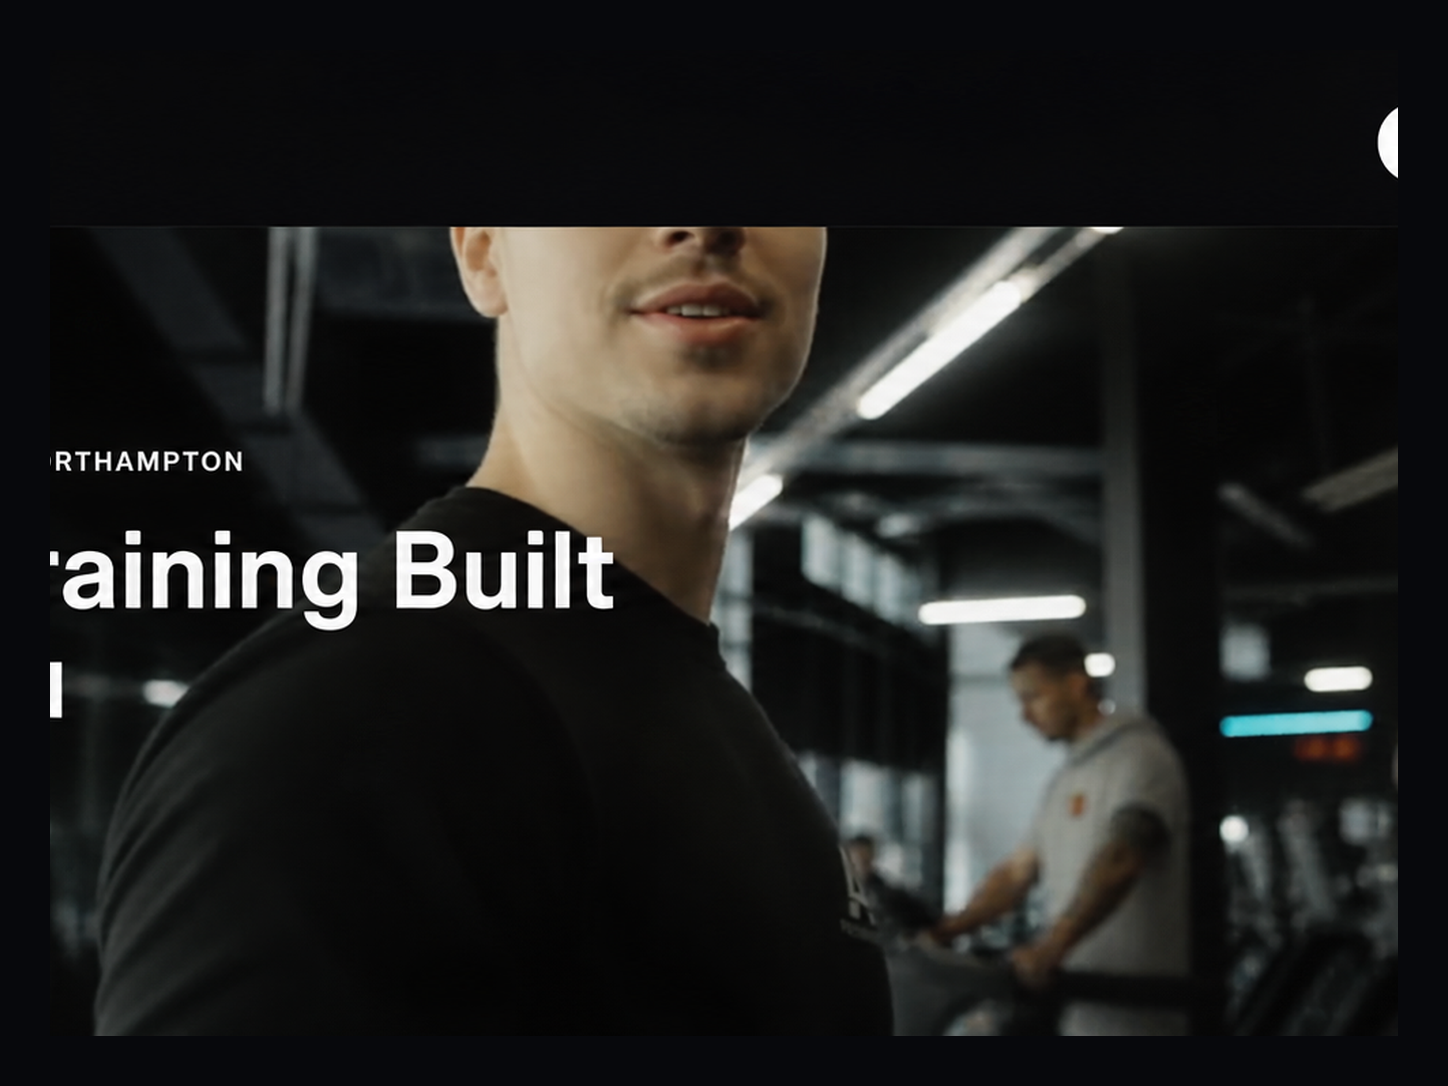
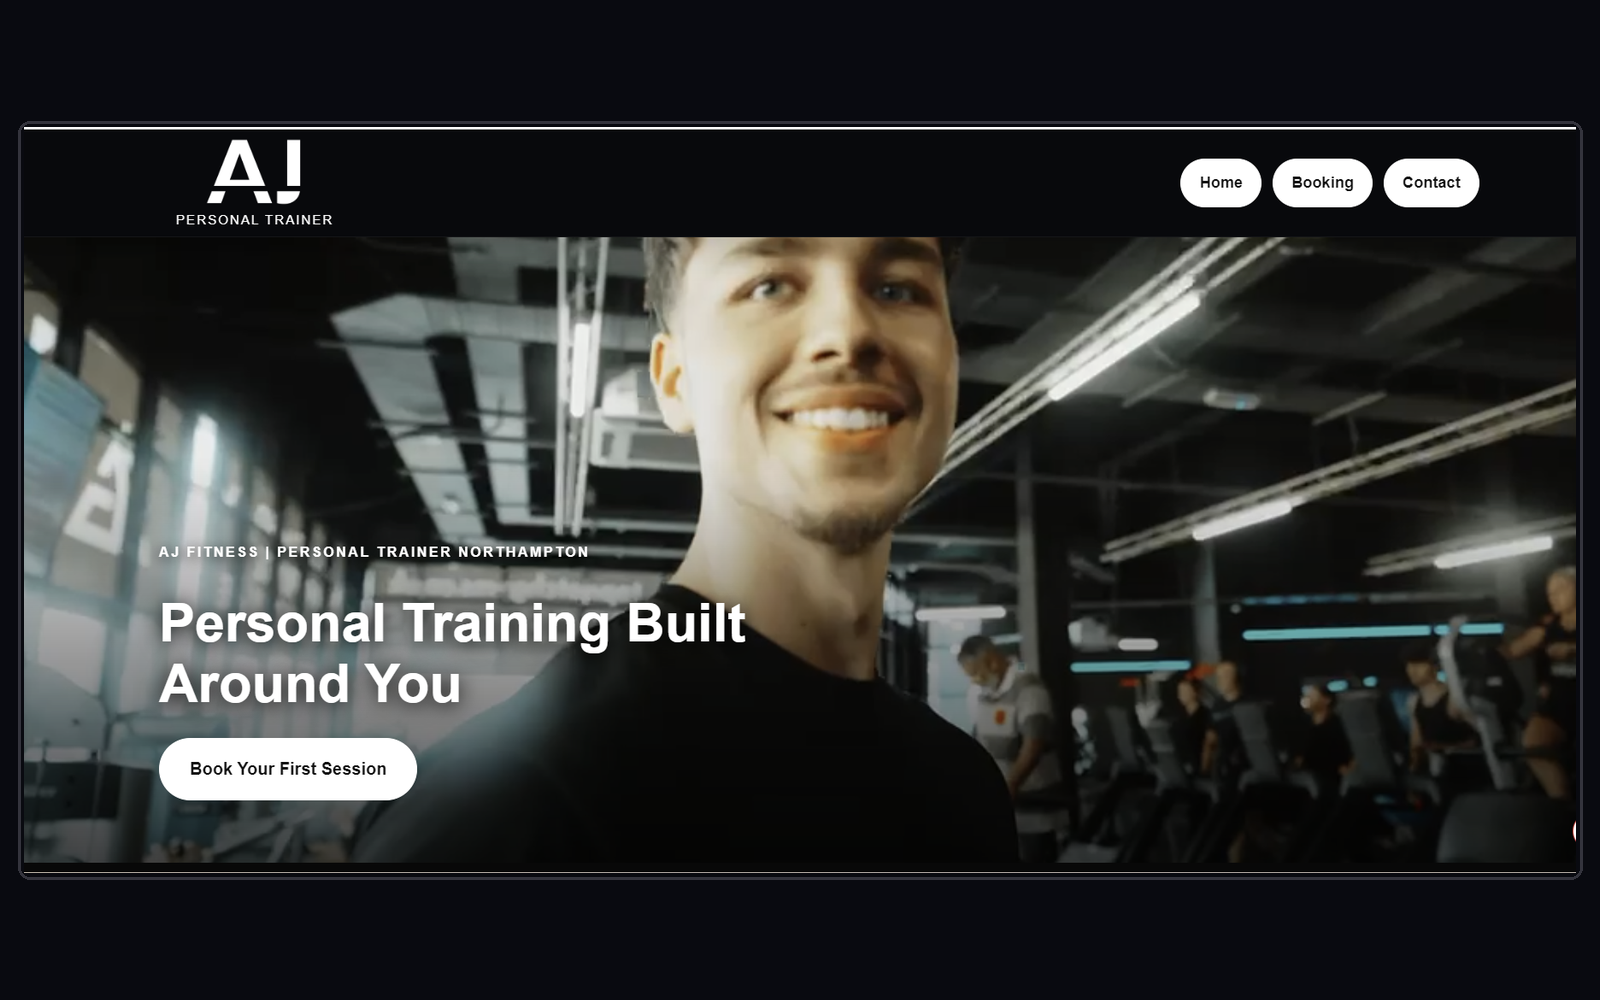
fix: refine AJ Fitness branding and Olga project preview

diff --git a/projects.html b/projects.html
@@ -79,7 +79,7 @@
     <p>
       A luxury aesthetics website designed and hand-coded to showcase treatments, build trust and create a premium client experience.
     </p>
-    <a class="project-link" href="images/olga-aesthetics-mockup.png" target="_blank" rel="noopener">View project</a>
+    <a class="project-link" href="olga-project.html">View project</a>
   </div>
 </article>
       <article class="project-card"><img src="images/sergio-robi-mockup.png"
@@ -91,7 +91,7 @@
             class="project-link" href="https://sergiorobipizzeria.co.uk" target="_blank" rel="noopener">View website</a>
         </div>
       </article>
-      <article class="project-card"><img src="images/aj-fitnes-mockup.png?v=3"
+      <article class="project-card"><img src="images/aj-fitnes-mockup.png?v=4"
           alt="AJ Fitness personal trainer website design by BJ Studio">
         <div class="project-copy-card">
           <p class="kicker">Fitness website</p>
@@ -172,7 +172,7 @@
 
       <article class="testimonial-card luxe-card">
         <div class="testimonial-logo-wrap">
-          <img src="images/aj-fitness-logo.png" alt="AJ Fitness logo" class="testimonial-logo">
+          <img src="images/aj-fitness-logo.png?v=4" alt="AJ Fitness logo" class="testimonial-logo">
         </div>
 
         <p class="testimonial-stars">★★★★★</p>

diff --git a/olga-project.html b/olga-project.html
@@ -1,0 +1,1 @@
+<!doctype html><html lang="en"><head><meta charset="utf-8"><meta name="viewport" content="width=device-width, initial-scale=1"><title>Olga Aesthetics — Website Project | BJ Design</title><meta name="description" content="A premium website concept for the aesthetics industry."><style>*,*::before,*::after{box-sizing:border-box}body{margin:0;background:#08090e;color:#f7f7fa;font-family:Arial,Helvetica,sans-serif}.wrap{max-width:1280px;margin:auto;padding:28px 22px 60px}.back{display:inline-flex;align-items:center;gap:12px;color:#e5bc6b;text-decoration:none;border:1px solid #5c4b31;padding:13px 20px;border-radius:40px;font-weight:700}.back:hover{background:#292116}h1{font-size:clamp(30px,5vw,54px);margin:42px 0 12px}p{color:#b7b8c1;line-height:1.6;margin-bottom:30px}img{display:block;width:100%;height:auto;border-radius:18px;border:1px solid #2c2d36}footer{margin-top:25px;color:#a7a7ae;font-size:14px}@media(max-width:600px){.wrap{padding:18px 14px 36px}h1{margin-top:32px}}</style></head><body><main class="wrap"><a class="back" href="projects.html">&#8592; Back to projects</a><h1>Olga Aesthetics</h1><p>A premium website concept for the aesthetics industry.</p><img src="images/olga-aesthetics-mockup.png" alt="Olga Aesthetics website mockup"><footer>Website design by BJ Design</footer></main></body></html>

diff --git a/projects-pl.html b/projects-pl.html
@@ -83,9 +83,8 @@
     </p>
 
     <a class="project-link"
-       href="https://olga-aesthetics.co.uk"
-       target="_blank"
-       rel="noopener">
+       href="olga-project.html"
+       >
       Zobacz stronę
     </a>
   </div>
@@ -100,7 +99,7 @@
             stronę</a>
         </div>
       </article>
-      <article class="project-card"><img src="images/aj-fitnes-mockup.png" alt="Podgląd strony AJ Fitness">
+      <article class="project-card"><img src="images/aj-fitnes-mockup.png?v=4" alt="Podgląd strony AJ Fitness">
         <div class="project-copy-card">
           <p class="kicker">Strona fitness</p>
           <h3>AJ Fitness</h3>
@@ -181,7 +180,7 @@
       <!-- 1 -->
       <article class="testimonial-card luxe-card">
         <div class="testimonial-logo-wrap">
-          <img src="images/aj-fitness-logo.png" alt="AJ Fitness logo" class="testimonial-logo">
+          <img src="images/aj-fitness-logo.png?v=4" alt="AJ Fitness logo" class="testimonial-logo">
         </div>
 
         <p class="testimonial-stars">★★★★★</p>

diff --git a/index.html b/index.html
@@ -108,7 +108,7 @@
 
       <article class="testimonial-card luxe-card">
         <div class="testimonial-logo-wrap">
-          <img src="images/aj-fitness-logo.png" alt="AJ Fitness logo" class="testimonial-logo">
+          <img src="images/aj-fitness-logo.png?v=4" alt="AJ Fitness logo" class="testimonial-logo">
         </div>
 
         <p class="testimonial-stars">★★★★★</p>
@@ -237,7 +237,7 @@
       <div class="case-study-grid">
 
         <div class="case-study-visual">
-          <img src="images/aj-fitnes-mockup.png" alt="AJ Fitness personal trainer website design by BJ Studio">
+          <img src="images/aj-fitnes-mockup.png?v=4" alt="AJ Fitness personal trainer website design by BJ Studio">
         </div>
 
         <div class="case-study-content">

diff --git a/style.css b/style.css
@@ -2686,3 +2686,10 @@ textarea:focus-visible {
     grid-template-columns: 1fr;
   }
 }
+/* AJ Fitness original white brand mark: legible stacked tagline */
+.testimonial-logo { max-width: 180px; max-height: 116px; width: 160px; height: auto; object-fit: contain; }
+.testimonial-logo-wrap { min-height: 120px; }
+
+/* AJ Fitness original white brand mark: legible stacked tagline */
+.testimonial-logo { max-width: 180px; max-height: 116px; width: 160px; height: auto; object-fit: contain; }
+.testimonial-logo-wrap { min-height: 120px; }

diff --git a/contact-pl.html b/contact-pl.html
@@ -126,7 +126,7 @@
       <!-- 1 -->
       <article class="testimonial-card luxe-card">
         <div class="testimonial-logo-wrap">
-          <img src="images/aj-fitness-logo.png" alt="AJ Fitness logo" class="testimonial-logo">
+          <img src="images/aj-fitness-logo.png?v=4" alt="AJ Fitness logo" class="testimonial-logo">
         </div>
 
         <p class="testimonial-stars">★★★★★</p>

diff --git a/index-pl.html b/index-pl.html
@@ -155,7 +155,7 @@
       <!-- 1 -->
       <article class="testimonial-card luxe-card">
         <div class="testimonial-logo-wrap">
-          <img src="images/aj-fitness-logo.png" alt="AJ Fitness logo" class="testimonial-logo">
+          <img src="images/aj-fitness-logo.png?v=4" alt="AJ Fitness logo" class="testimonial-logo">
         </div>
 
         <p class="testimonial-stars">★★★★★</p>

diff --git a/pricing-pl.html b/pricing-pl.html
@@ -164,7 +164,7 @@
       <!-- 1 -->
       <article class="testimonial-card luxe-card">
         <div class="testimonial-logo-wrap">
-          <img src="images/aj-fitness-logo.png" alt="AJ Fitness logo" class="testimonial-logo">
+          <img src="images/aj-fitness-logo.png?v=4" alt="AJ Fitness logo" class="testimonial-logo">
         </div>
 
         <p class="testimonial-stars">★★★★★</p>

diff --git a/services-pl.html b/services-pl.html
@@ -184,7 +184,7 @@
       <!-- 1 -->
       <article class="testimonial-card luxe-card">
         <div class="testimonial-logo-wrap">
-          <img src="images/aj-fitness-logo.png" alt="AJ Fitness logo" class="testimonial-logo">
+          <img src="images/aj-fitness-logo.png?v=4" alt="AJ Fitness logo" class="testimonial-logo">
         </div>
 
         <p class="testimonial-stars">★★★★★</p>

diff --git a/about-pl.html b/about-pl.html
@@ -99,7 +99,7 @@
       <!-- 1 -->
       <article class="testimonial-card luxe-card">
         <div class="testimonial-logo-wrap">
-          <img src="images/aj-fitness-logo.png" alt="AJ Fitness logo" class="testimonial-logo">
+          <img src="images/aj-fitness-logo.png?v=4" alt="AJ Fitness logo" class="testimonial-logo">
         </div>
 
         <p class="testimonial-stars">★★★★★</p>

diff --git a/contact.html b/contact.html
@@ -126,7 +126,7 @@
 
       <article class="testimonial-card luxe-card">
         <div class="testimonial-logo-wrap">
-          <img src="images/aj-fitness-logo.png" alt="AJ Fitness logo" class="testimonial-logo">
+          <img src="images/aj-fitness-logo.png?v=4" alt="AJ Fitness logo" class="testimonial-logo">
         </div>
 
         <p class="testimonial-stars">★★★★★</p>

diff --git a/pricing.html b/pricing.html
@@ -165,7 +165,7 @@
 
       <article class="testimonial-card luxe-card">
         <div class="testimonial-logo-wrap">
-          <img src="images/aj-fitness-logo.png" alt="AJ Fitness logo" class="testimonial-logo">
+          <img src="images/aj-fitness-logo.png?v=4" alt="AJ Fitness logo" class="testimonial-logo">
         </div>
 
         <p class="testimonial-stars">★★★★★</p>
